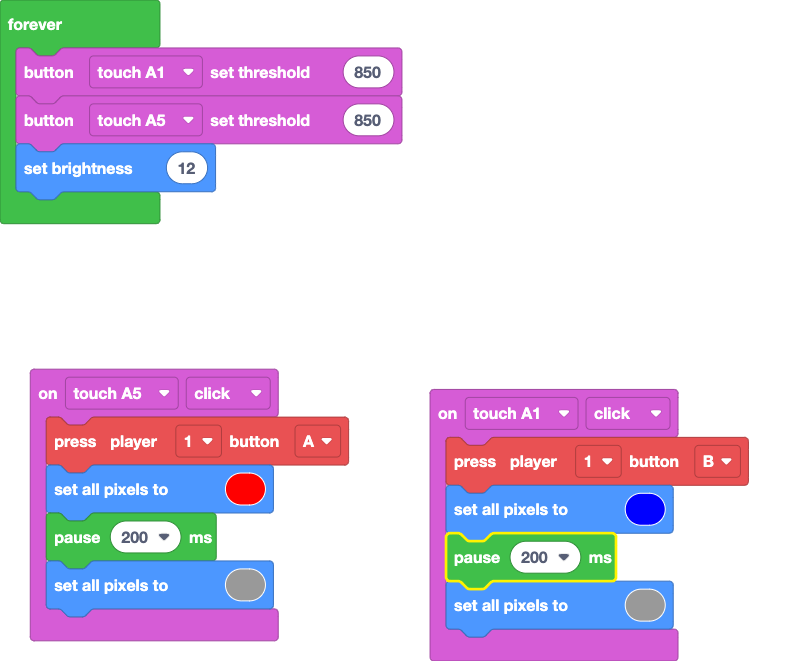
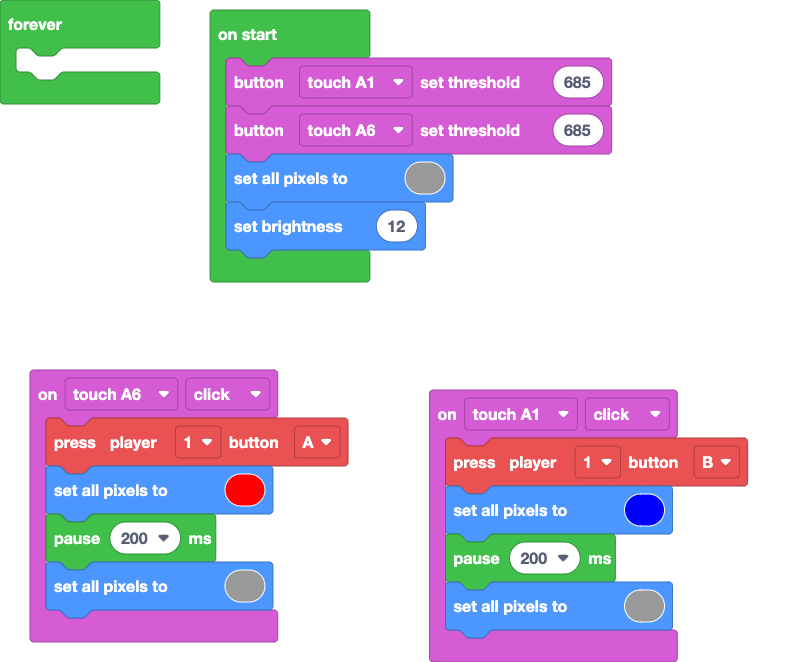
Update main.blocks, main.ts

diff --git a/main.ts b/main.ts
@@ -1,17 +1,19 @@
+input.touchA6.onEvent(ButtonEvent.Click, function () {
+    makerController.player1.press(ArcadeButton.A)
+    light.setAll(0xff0000)
+    pause(200)
+    light.setAll(0x999999)
+})
 input.touchA1.onEvent(ButtonEvent.Click, function () {
     makerController.player1.press(ArcadeButton.B)
     light.setAll(0x0000ff)
     pause(200)
     light.setAll(0x999999)
 })
-input.touchA5.onEvent(ButtonEvent.Click, function () {
-    makerController.player1.press(ArcadeButton.A)
-    light.setAll(0xff0000)
-    pause(200)
-    light.setAll(0x999999)
-})
+input.touchA1.setThreshold(685)
+input.touchA6.setThreshold(685)
+light.setAll(0x999999)
+light.setBrightness(12)
 forever(function () {
-    input.touchA1.setThreshold(850)
-    input.touchA5.setThreshold(850)
-    light.setBrightness(12)
+	
 })
